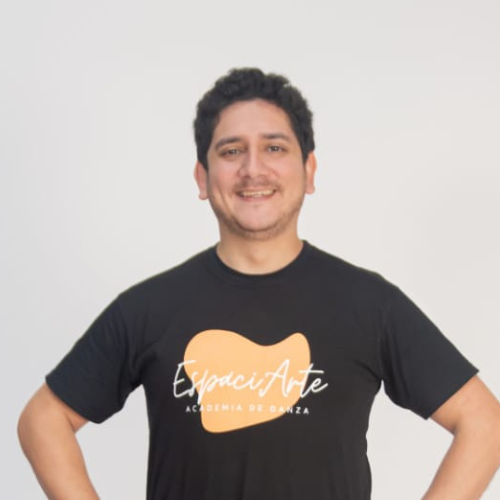
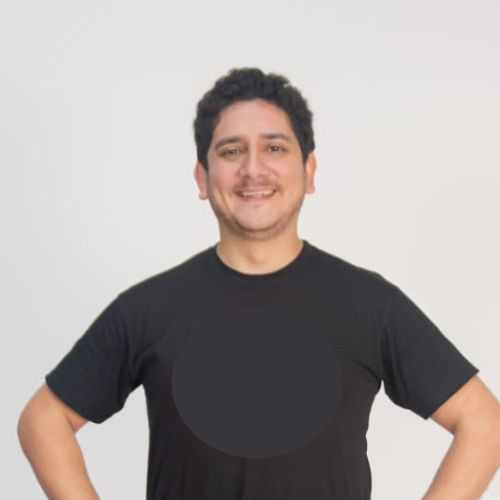
Modificacion de imagen de perfil y correcion de errores en css

Changed region(s): [[0.33, 0.66, 0.66, 0.87]]

diff --git a/css/styles.css b/css/styles.css
@@ -386,6 +386,7 @@ button,
 [type=reset],
 [type=submit] {
   -webkit-appearance: button;
+  appearance: button;
 }
 button:not(:disabled),
 [type=button]:not(:disabled),
@@ -443,7 +444,7 @@ legend + * {
 
 [type=search] {
   outline-offset: -2px;
-  -webkit-appearance: textfield;
+  appearance: textfield;
 }
 
 /* rtl:raw:
@@ -464,7 +465,7 @@ legend + * {
 
 ::file-selector-button {
   font: inherit;
-  -webkit-appearance: button;
+  appearance: button;
 }
 
 output {
